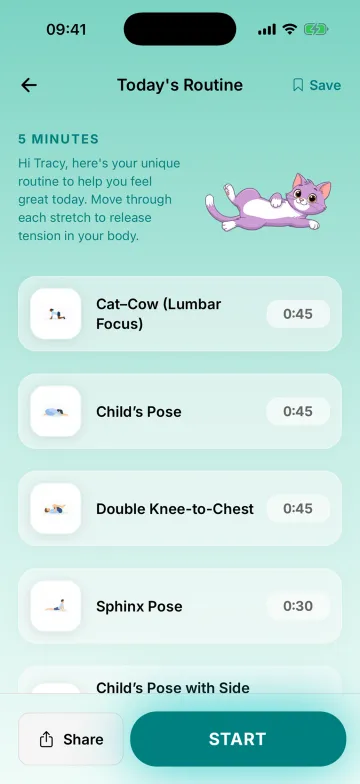
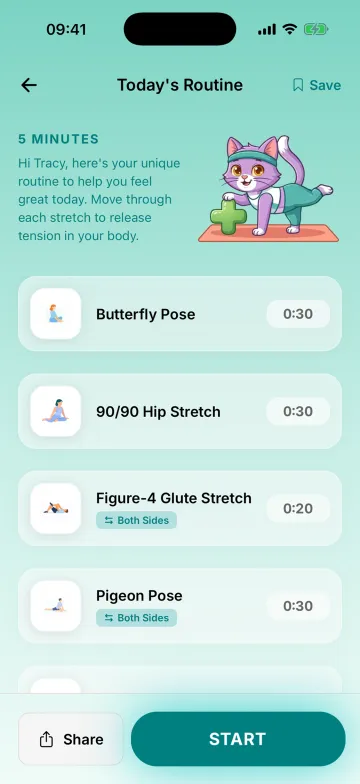
web: current app screens and the LIMBA wordmark in the feature strip
- Today's Routine and Journeys now use the app's v1.11.0 screens (the
  onboarding previews in limba_mobile assets/onboarding) instead of older
  site screenshots; Ask Limba keeps the November capture.
- The Bulletproof Knees and Wellness Library cards are gone: both
  screenshots were from June and there is no current one yet.
- "Limba" in the strip's heading and in "Ask Limba" is drawn as the LIMBA
  wordmark, like the app's Ask LIMBA header.

diff --git a/app/r/[code]/player/FeatureCarousel.tsx b/app/r/[code]/player/FeatureCarousel.tsx
@@ -31,16 +31,37 @@ export const FEATURES: Feature[] = [
     text: 'Tell Limba what feels tight and get a routine for it.',
   },
   {
-    image: '/player/features/journey-detail.webp',
+    image: '/player/features/journeys.webp',
     title: 'Journeys',
     text: 'Step-by-step programmes for your knees, hips and back.',
   },
-  {
-    image: '/player/features/wellness-library.webp',
-    title: 'The Wellness Library',
-    text: 'Every stretch, sorted by the part of you that needs it.',
-  },
 ]
+
+/**
+ * Writes "Limba" as the app's LIMBA wordmark (the logo artwork), sized to the
+ * capital height of the text around it, like the app's "Ask LIMBA" header.
+ */
+function WithWordmark({ text, fontSize }: { text: string; fontSize: number }) {
+  const parts = text.split('Limba')
+  return (
+    <>
+      {parts.map((part, i) => (
+        <span key={i}>
+          {part}
+          {i < parts.length - 1 && (
+            // eslint-disable-next-line @next/next/no-img-element
+            <img
+              src="/images/LIMBA@2x.png"
+              alt="Limba"
+              className="inline-block w-auto align-baseline"
+              style={{ height: fontSize * 0.72 }}
+            />
+          )}
+        </span>
+      ))}
+    </>
+  )
+}
 
 export function FeatureCarousel({ senderName }: { senderName: string | null }) {
   const { s, vs, ms } = useAppScale()
@@ -115,7 +136,7 @@ export function FeatureCarousel({ senderName }: { senderName: string | null }) {
         className="text-center font-bold text-black"
         style={{ fontSize: ms(17), marginBottom: vs(12), letterSpacing: -0.3 }}
       >
-        {heading}
+        <WithWordmark text={heading} fontSize={ms(17)} />
       </h3>
 
       <div
@@ -171,7 +192,7 @@ export function FeatureCarousel({ senderName }: { senderName: string | null }) {
                   marginBottom: vs(6),
                 }}
               >
-                {feature.title}
+                <WithWordmark text={feature.title} fontSize={ms(16)} />
               </p>
               <p
                 className="font-medium text-[#666666]"

diff --git a/app/r/[code]/player/__tests__/RoutinePlayer.test.tsx b/app/r/[code]/player/__tests__/RoutinePlayer.test.tsx
@@ -150,15 +150,16 @@ describe('RoutinePlayer', () => {
     expect(onCompleted).toHaveBeenCalledTimes(1)
 
     // App features to swipe through, headed with the sender's name.
+    // "Limba" is written as the app's wordmark.
     expect(
-      screen.getByText('Tracy builds routines like this with Limba')
+      screen.getByRole('heading', {
+        name: 'Tracy builds routines like this with Limba',
+      })
     ).toBeInTheDocument()
-    for (const title of [
-      'A new routine every day',
-      'Ask Limba',
-      'Journeys',
-      'The Wellness Library',
-    ]) {
+    expect(
+      document.querySelector('h3 img[src="/images/LIMBA@2x.png"]')
+    ).not.toBeNull()
+    for (const title of ['A new routine every day', 'Ask Limba', 'Journeys']) {
       expect(
         screen.getByAltText(`${title} in the Limba app`)
       ).toBeInTheDocument()
@@ -172,10 +173,10 @@ describe('RoutinePlayer', () => {
     )
     advance(4)
     expect(dot('Ask Limba')).toHaveAttribute('aria-current', 'true')
-    fireEvent.click(dot('The Wellness Library'))
-    expect(dot('The Wellness Library')).toHaveAttribute('aria-current', 'true')
+    fireEvent.click(dot('Journeys'))
+    expect(dot('Journeys')).toHaveAttribute('aria-current', 'true')
     advance(8)
-    expect(dot('The Wellness Library')).toHaveAttribute('aria-current', 'true')
+    expect(dot('Journeys')).toHaveAttribute('aria-current', 'true')
   })
 
   it('skips, goes back, and closes from the X and on Escape', () => {
